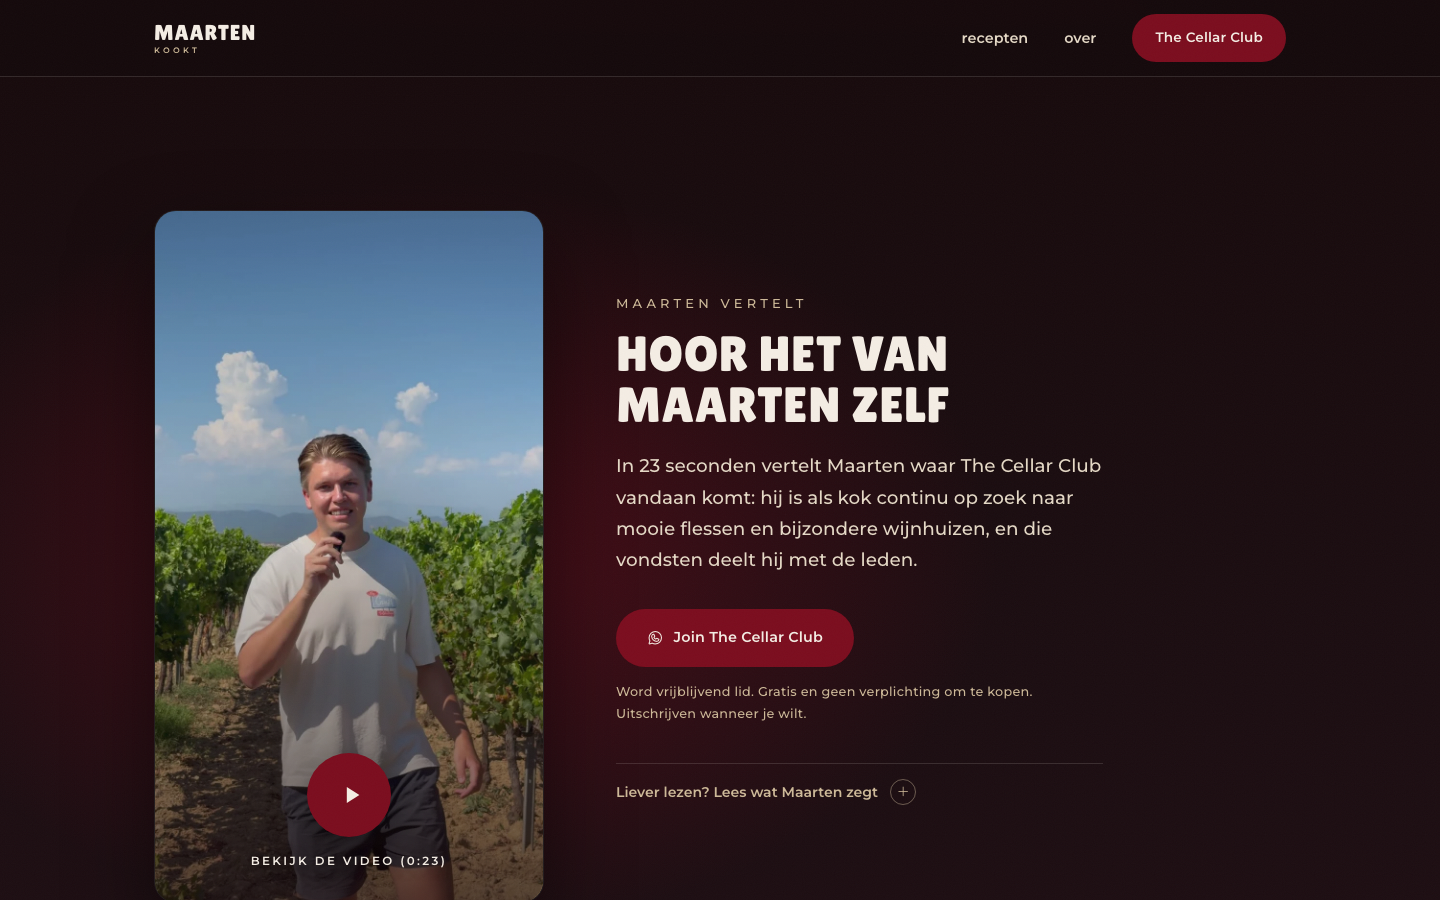
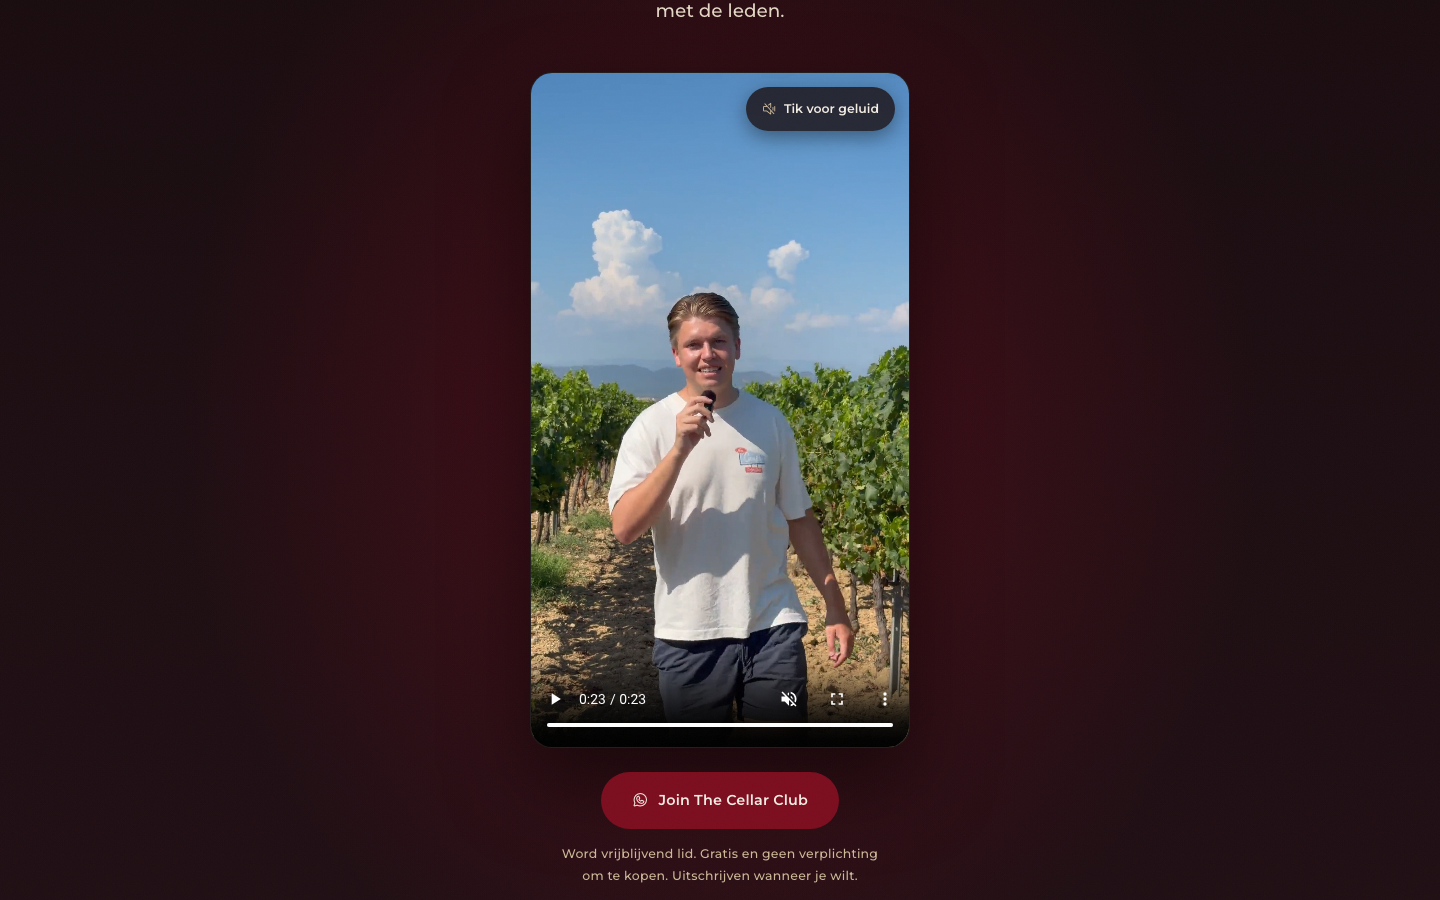
Cellar Club-video: ondertiteling uit, opent zichzelf, link eronder
Drie punten van Job na het bekijken van de live pagina.

- Ondertiteling stond aan zodra je klikte. Het "default" is van de track af,
  dus hij staat uit tenzij iemand hem zelf aanzet in de speler.
- De video begint nu uit zichzelf zodra hij in beeld scrolt, en als het
  scrollen tot rust komt schuift hij netjes naar het midden. Bewust geen slot
  op de scroll: blijf je doorscrollen, dan scrol je gewoon door.
  Geluid kan daar niet bij: Chrome en Safari staan dat alleen toe na een tik.
  Daarom eerst mét geprobeerd, en anders stil plus een knop "tik voor geluid"
  die het geluid aanzet en opnieuw begint.
- De sectie is nu één gecentreerde kolom (intro, video, link) in plaats van
  twee kolommen. De joinknop staat daarmee op elk scherm ónder de video, zoals
  Maarten in de video zegt. Er wordt geparkeerd op video plus knop samen, dus
  die link staat ook echt in beeld.

diff --git a/shopify-theme/assets/theme.css b/shopify-theme/assets/theme.css
@@ -1154,14 +1154,19 @@ html.lenis, html.lenis body { height: auto; }
 .cellar-video-sec { position: relative; overflow: hidden; }
 .cellar-video-glow {
   position: absolute; inset: 0; pointer-events: none;
-  background: radial-gradient(56% 54% at 30% 50%, rgba(123, 13, 30, 0.5), transparent 70%);
+  background: radial-gradient(52% 56% at 50% 54%, rgba(123, 13, 30, 0.5), transparent 72%);
 }
-.cellar-video-grid {
-  position: relative; z-index: 2;
-  display: grid; grid-template-columns: minmax(0, 390px) minmax(0, 1fr);
-  gap: clamp(34px, 5vw, 78px); align-items: center;
-}
-.cellar-video { margin: 0; }
+/* Eén gecentreerde kolom, in dezelfde volgorde als Maartens verhaal: korte intro,
+   dan de video, dan de link. In de video zegt hij letterlijk "de link hieronder",
+   dus de joinknop moet er op elk scherm ónder staan, niet ernaast. Dat sluit ook
+   aan op de rest van deze pagina, die overal gecentreerd is. */
+.cellar-video-wrap { position: relative; z-index: 2; max-width: 680px; text-align: center; }
+.cellar-video-wrap .cellar-kicker { margin-bottom: 14px; }
+.cellar-video-wrap h2 { font-size: clamp(2rem, 4.6vw, 3.2rem); }
+.cellar-video-wrap .lead { margin: 20px auto 0; max-width: 46ch; }
+.cellar-video-wrap .feature-cta { justify-content: center; margin-top: 24px; }
+.cellar-video-wrap .cellar-reassure { font-size: 0.78rem; max-width: 40ch; margin-left: auto; margin-right: auto; }
+.cellar-video { width: min(100%, 380px); margin: clamp(32px, 4vw, 46px) auto 0; }
 .cellar-video-frame {
   position: relative; aspect-ratio: 9 / 16; overflow: hidden;
   border-radius: 22px; border: 1px solid rgba(244, 237, 228, 0.1);
@@ -1196,23 +1201,35 @@ html.lenis, html.lenis body { height: auto; }
   text-shadow: 0 2px 14px rgba(0, 0, 0, 0.7); padding: 0 18px; text-align: center;
 }
 .cellar-video-frame.is-playing .cellar-video-play { opacity: 0; pointer-events: none; }
+
+/* Verschijnt alleen als de video uit zichzelf is gestart en de browser het geluid
+   heeft tegengehouden. Rechtsboven, zodat hij de knoppenbalk van de speler onderin
+   niet in de weg zit. Geen backdrop-filter: die kostte eerder frames tijdens scroll. */
+.cellar-video-sound {
+  position: absolute; top: 14px; right: 14px; z-index: 3;
+  display: none; align-items: center; gap: 8px;
+  padding: 10px 16px; min-height: 44px; border: 0; border-radius: 999px; cursor: pointer;
+  background: rgba(23, 10, 12, 0.78); color: var(--cream);
+  font: inherit; font-size: 0.78rem; font-weight: 600;
+  box-shadow: 0 6px 20px rgba(0, 0, 0, 0.4);
+  transition: background 0.25s ease;
+}
+.cellar-video-frame.is-muted .cellar-video-sound { display: inline-flex; }
+.cellar-video-sound:hover { background: var(--bordeaux); }
+.cellar-video-sound i { font-size: 1.15em; color: var(--tan); transition: color 0.25s ease; }
+.cellar-video-sound:hover i { color: var(--cream); }
 @media (prefers-reduced-motion: reduce) {
   .cellar-video-play:hover .cvp-disc,
   .cellar-video-play:focus-visible .cvp-disc { transform: none; }
 }
 
-.cellar-video-copy { max-width: 46ch; }
-.cellar-video-copy .cellar-kicker { margin-bottom: 14px; }
-.cellar-video-copy h2 { font-size: clamp(2rem, 4.4vw, 3.1rem); }
-.cellar-video-copy .lead { margin-top: 20px; }
-.cellar-video-copy .feature-cta { justify-content: flex-start; margin-top: clamp(26px, 3vw, 34px); }
-.cellar-video-copy .cellar-reassure { font-size: 0.8rem; }
-
 /* Uitgeschreven video: voor wie liever leest of geen geluid aan kan zetten. Ook
-   het enige stuk van dit verhaal dat een zoekmachine kan lezen. */
-.cellar-transcript { margin-top: clamp(28px, 3.4vw, 38px); border-top: 1px solid var(--line); }
+   het enige stuk van dit verhaal dat een zoekmachine kan lezen. De regel zelf
+   staat gecentreerd bij de rest; de lopende tekst blijft links, want gecentreerde
+   alinea's lezen slecht over meerdere regels. */
+.cellar-transcript { margin: clamp(28px, 3.4vw, 38px) auto 0; max-width: 48ch; border-top: 1px solid var(--line); }
 .cellar-transcript summary {
-  list-style: none; cursor: pointer; display: flex; align-items: center; gap: 12px;
+  list-style: none; cursor: pointer; display: flex; align-items: center; justify-content: center; gap: 12px;
   padding: 15px 0; min-height: 44px;  /* raakvlak van 44px, zie het blok onderaan */
   color: var(--tan); font-size: 0.88rem; font-weight: 600;
   transition: color 0.25s ease;
@@ -1227,20 +1244,12 @@ html.lenis, html.lenis body { height: auto; }
 }
 .cellar-transcript[open] summary i { transform: rotate(45deg); background: var(--tan); color: var(--ink); }
 .cellar-transcript .faq-a > p {
-  margin: 0; padding-bottom: 22px; color: var(--cream-2);
+  margin: 0; padding-bottom: 22px; color: var(--cream-2); text-align: left;
   font-weight: 500; font-size: 0.95rem; line-height: 1.75;
 }
 
 @media (max-width: 900px) {
-  .cellar-video-grid { grid-template-columns: 1fr; gap: clamp(30px, 6vw, 44px); }
-  .cellar-video { width: min(100%, 340px); margin: 0 auto; }
-  .cellar-video-copy { max-width: 46ch; margin: 0 auto; text-align: center; }
-  .cellar-video-copy .feature-cta { justify-content: center; }
-  /* De knop mee centreren met de rest, maar de tekst zelf links laten staan:
-     gecentreerde lopende tekst leest slecht over meerdere regels. */
-  .cellar-transcript summary { justify-content: center; }
-  .cellar-transcript .faq-a > p { text-align: left; }
-  .cellar-video-glow { background: radial-gradient(76% 38% at 50% 26%, rgba(123, 13, 30, 0.45), transparent 72%); }
+  .cellar-video-glow { background: radial-gradient(80% 42% at 50% 46%, rgba(123, 13, 30, 0.45), transparent 72%); }
 }
 
 /* B. Wat je krijgt — editorial 01..04 (geen iconen) */

diff --git a/shopify-theme/preview-cellar-video.html b/shopify-theme/preview-cellar-video.html
@@ -7,39 +7,42 @@
 <link href="https://fonts.googleapis.com/css2?family=Lilita+One&family=Montserrat:wght@400;500;600&display=swap" rel="stylesheet">
 <link rel="stylesheet" href="https://unpkg.com/@phosphor-icons/web@2.1.1/src/regular/style.css">
 <link rel="stylesheet" href="assets/theme.css">
-<style>.reveal{opacity:1!important;transform:none!important}</style>
+<style>.reveal{opacity:1!important;transform:none!important}.aanloop{height:130vh;display:grid;place-items:center;color:#cdb998;font-family:Montserrat,sans-serif}</style>
 </head>
 <body>
 <article class="recipe-feature cellar">
 <div class="cellar-body">
+  <div class="aanloop">scroll naar beneden om het automatisch openen te testen</div>
+
   <section class="section cellar-video-sec">
     <div class="cellar-video-glow" aria-hidden="true"></div>
-    <div class="wrap cellar-video-grid">
+    <div class="wrap cellar-video-wrap">
+      <p class="meta cellar-kicker reveal">Maarten vertelt</p>
+      <h2 class="display reveal">Hoor het van Maarten zelf</h2>
+      <p class="lead reveal">In 23 seconden vertelt Maarten waar The Cellar Club vandaan komt: hij is als kok continu op zoek naar mooie flessen en bijzondere wijnhuizen, en die vondsten deelt hij met de leden.</p>
       <figure class="cellar-video reveal">
         <div class="cellar-video-frame" data-video-player>
           <video poster="assets/cellar-club-poster.jpg" preload="none" playsinline width="1080" height="1920" aria-label="Hoor het van Maarten zelf">
             <source src="assets/cellar-club-video.mp4" type="video/mp4">
-            <track kind="captions" src="assets/cellar-club-captions.vtt" srclang="nl" label="Nederlands" default>
+            <track kind="captions" src="assets/cellar-club-captions.vtt" srclang="nl" label="Nederlands">
           </video>
           <button type="button" class="cellar-video-play" data-video-play>
             <span class="cvp-disc" aria-hidden="true"><svg viewBox="0 0 24 24" width="28" height="28" focusable="false" aria-hidden="true"><path d="M8.4 5.1v13.8L19.2 12z" fill="currentColor"/></svg></span>
             <span class="cvp-label">Bekijk de video (0:23)</span>
           </button>
+          <button type="button" class="cellar-video-sound" data-video-sound>
+            <i class="ph ph-speaker-simple-slash" aria-hidden="true"></i>Tik voor geluid
+          </button>
         </div>
       </figure>
-      <div class="cellar-video-copy">
-        <p class="meta cellar-kicker reveal">Maarten vertelt</p>
-        <h2 class="display reveal">Hoor het van Maarten zelf</h2>
-        <p class="lead reveal">In 23 seconden vertelt Maarten waar The Cellar Club vandaan komt: hij is als kok continu op zoek naar mooie flessen en bijzondere wijnhuizen, en die vondsten deelt hij met de leden.</p>
-        <div class="feature-cta reveal">
-          <a class="btn btn-primary" href="#" target="_blank" rel="noopener"><i class="ph ph-whatsapp-logo" aria-hidden="true"></i>Join The Cellar Club</a>
-        </div>
-        <p class="meta cellar-reassure reveal">Word vrijblijvend lid. Gratis en geen verplichting om te kopen. Uitschrijven wanneer je wilt.</p>
-        <details class="cellar-transcript reveal">
-          <summary>Liever lezen? Lees wat Maarten zegt<i class="ph ph-plus" aria-hidden="true"></i></summary>
-          <div class="faq-a"><p>Als je Maarten kookt volgt, dan weet je dat ik helemaal gek ben van lekker eten, maar minstens net zo gek ben van goede wijn. Daarom ben ik eigenlijk continu op zoek naar mooie flessen, bijzondere wijnhuizen en dingen die je niet overal tegenkomt. En het leuke daarvan is: die deel ik regelmatig in mijn WhatsApp-groep, de Cellar Club. Wil je die joinen? De link staat hieronder, en dan zie ik je daar.</p></div>
-        </details>
+      <div class="feature-cta reveal">
+        <a class="btn btn-primary" href="#" target="_blank" rel="noopener"><i class="ph ph-whatsapp-logo" aria-hidden="true"></i>Join The Cellar Club</a>
       </div>
+      <p class="meta cellar-reassure reveal">Word vrijblijvend lid. Gratis en geen verplichting om te kopen. Uitschrijven wanneer je wilt.</p>
+      <details class="cellar-transcript reveal">
+        <summary>Liever lezen? Lees wat Maarten zegt<i class="ph ph-plus" aria-hidden="true"></i></summary>
+        <div class="faq-a"><p>Als je Maarten kookt volgt, dan weet je dat ik helemaal gek ben van lekker eten, maar minstens net zo gek ben van goede wijn. Daarom ben ik eigenlijk continu op zoek naar mooie flessen, bijzondere wijnhuizen en dingen die je niet overal tegenkomt. En het leuke daarvan is: die deel ik regelmatig in mijn WhatsApp-groep, de Cellar Club. Wil je die joinen? De link staat hieronder, en dan zie ik je daar.</p></div>
+      </details>
     </div>
   </section>
 

diff --git a/shopify-theme/assets/theme.js b/shopify-theme/assets/theme.js
@@ -185,25 +185,90 @@
     });
   }
 
-  /* ---- Video met eigen afspeelknop (Cellar Club). De video staat op
-         preload="none", dus er wordt niets gedownload tot iemand klikt. Bij een
-         klik komt de speler van de browser tevoorschijn (volume, ondertiteling,
-         volledig scherm) en verdwijnt onze knop. ---- */
+  /* ---- Video (Cellar Club). Twee manieren waarop hij begint:
+         1. je klikt op de afspeelknop -> met geluid;
+         2. je scrolt hem in beeld -> hij start uit zichzelf.
+         Bij 2 mag er van de browser geen geluid uit (Chrome en Safari staan
+         geluid alleen toe na een tik van de gebruiker). Daarom proberen we het
+         eerst mét, en valt hij anders terug op stil + een knop "tik voor geluid".
+         De video staat op preload="none", dus er wordt niets gedownload tot een
+         van deze twee gebeurt. ---- */
   document.querySelectorAll("[data-video-player]").forEach(function (frame) {
     var video = frame.querySelector("video");
     var button = frame.querySelector("[data-video-play]");
+    var soundButton = frame.querySelector("[data-video-sound]");
     if (!video || !button) return;
-    button.addEventListener("click", function () {
+    var gestart = false;
+
+    var speelAf = function (magGeluid) {
+      gestart = true;
       video.controls = true;
       frame.classList.add("is-playing");
+      video.muted = !magGeluid;
+      frame.classList.toggle("is-muted", !magGeluid);
       var started = video.play();
-      /* Lukt afspelen niet (bijvoorbeeld een geblokkeerde autoplay-regel op een
-         oudere browser), dan halen we de knop terug in plaats van een stille
-         mislukking te tonen. */
       if (started && started.catch) {
-        started.catch(function () { frame.classList.remove("is-playing"); });
+        started.catch(function () {
+          /* Geweigerd. Met geluid is dat de normale gang van zaken bij automatisch
+             starten: opnieuw proberen zonder geluid en de geluidsknop tonen. */
+          if (magGeluid) { speelAf(false); return; }
+          gestart = false;
+          frame.classList.remove("is-playing", "is-muted");
+        });
       }
-    });
+    };
+
+    button.addEventListener("click", function () { speelAf(true); });
+
+    if (soundButton) {
+      soundButton.addEventListener("click", function () {
+        /* Van voren af aan: de eerste zin is precies waar het om gaat. */
+        video.currentTime = 0;
+        speelAf(true);
+      });
+    }
+
+    /* Automatisch openen zodra hij in beeld komt. Niet bij reduced-motion: wie
+       beweging uit heeft gezet, wil geen video die uit zichzelf begint. */
+    if (reduceMotion || !("IntersectionObserver" in window)) return;
+
+    /* Als het scrollen tot rust komt, schuift de video netjes naar het midden
+       van het scherm. Bewust geen slot op de scroll: blijf je doorscrollen, dan
+       scrol je gewoon door. */
+    var cta = frame.closest(".cellar-video-wrap");
+    cta = cta ? cta.querySelector(".feature-cta") : null;
+    var parkeer = function () {
+      var r = frame.getBoundingClientRect();
+      var inBeeld = Math.min(r.bottom, window.innerHeight) - Math.max(r.top, 0);
+      if (inBeeld < r.height * 0.5) return;              /* al voorbij: met rust laten */
+      /* Niet de video alleen centreren maar video plus joinknop: Maarten verwijst
+         aan het eind naar "de link hieronder", dus die moet in beeld staan. */
+      var onderkant = cta ? cta.getBoundingClientRect().bottom : r.bottom;
+      var hoogte = onderkant - r.top;
+      var doel = window.scrollY + r.top - (window.innerHeight - hoogte) / 2;
+      if (Math.abs(doel - window.scrollY) < 24) return;  /* staat al goed */
+      if (lenis) lenis.scrollTo(doel, { duration: 0.8 });
+      else window.scrollTo({ top: doel, behavior: "smooth" });
+    };
+    var rustTimer = null;
+    var wachtOpStilstand = function () {
+      window.clearTimeout(rustTimer);
+      rustTimer = window.setTimeout(function () {
+        window.removeEventListener("scroll", wachtOpStilstand);
+        parkeer();
+      }, 170);
+    };
+
+    var waarnemer = new IntersectionObserver(function (entries) {
+      entries.forEach(function (entry) {
+        if (!entry.isIntersecting || gestart) return;
+        waarnemer.disconnect();
+        speelAf(true);
+        window.addEventListener("scroll", wachtOpStilstand, { passive: true });
+        wachtOpStilstand();
+      });
+    }, { threshold: 0.55 });
+    waarnemer.observe(frame);
   });
 
   /* ---- FAQ-accordion: vloeiend open/dicht via de Web Animations API op de
